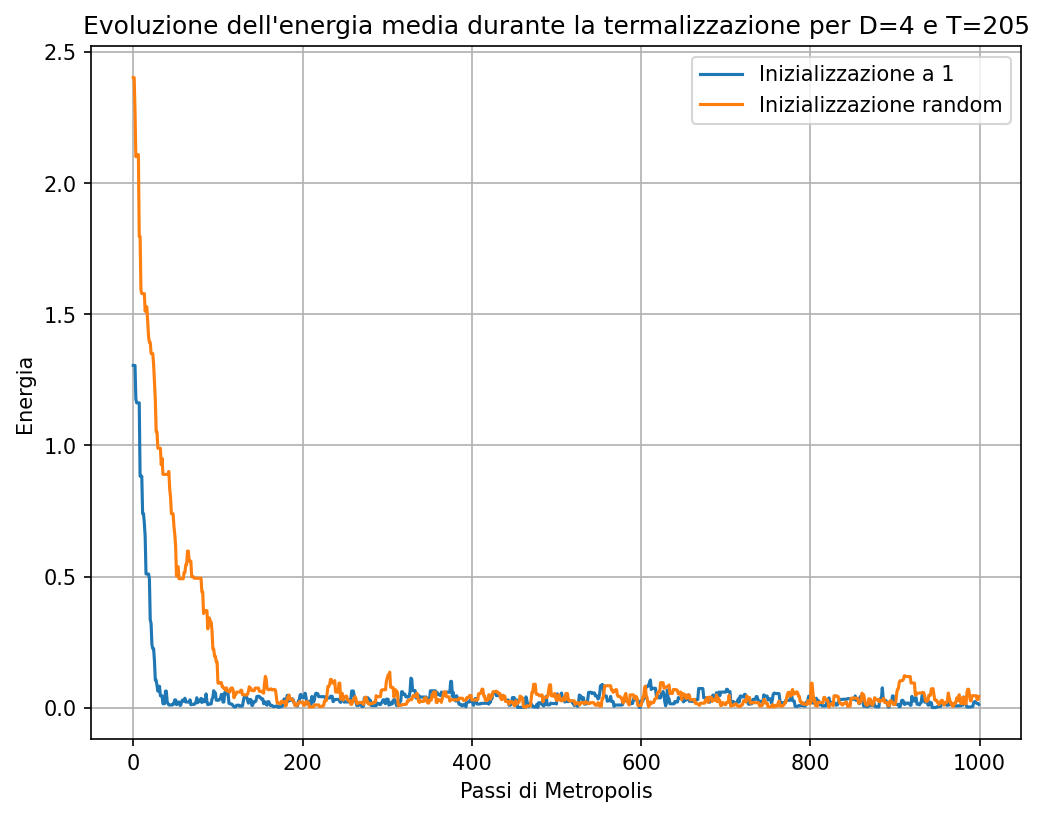
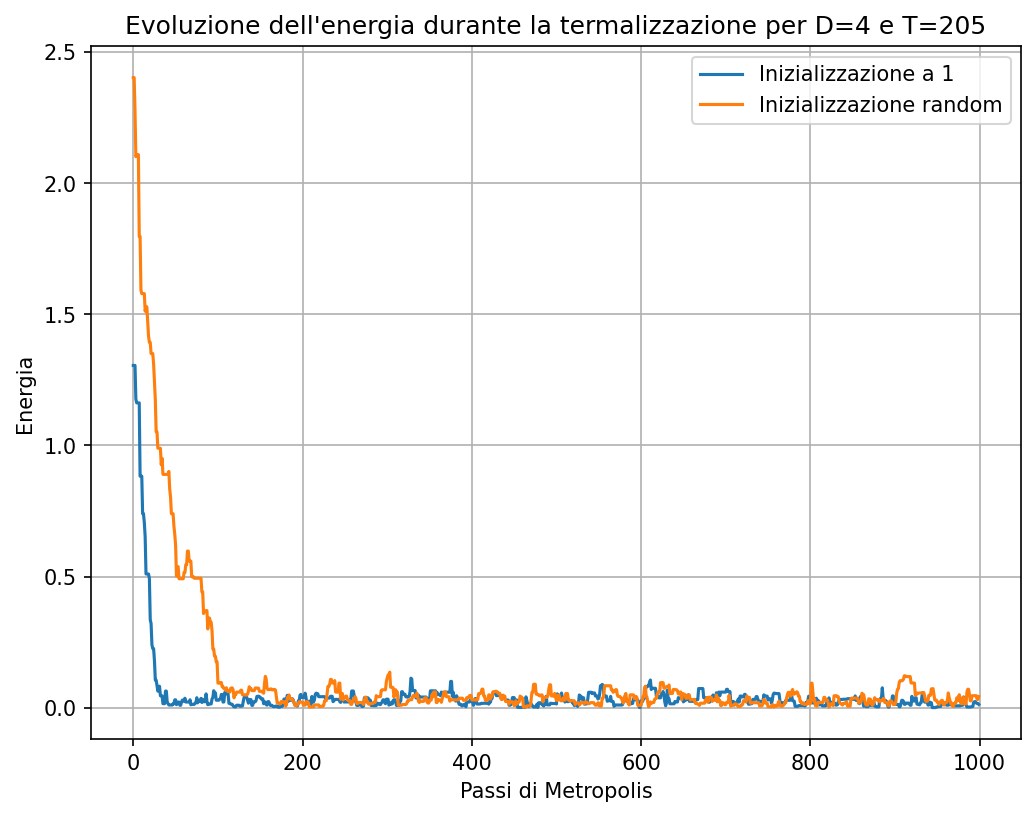
runned code, better plots, more steps

diff --git a/source/plot.py b/source/plot.py
@@ -17,7 +17,7 @@ def plot_thermalization_energies(trajectory1,trajectoryR, T, D, n_steps, V: Call
     plt.plot(jnp.arange(n_steps), jax.vmap(V)(trajectoryR), label="Inizializzazione random")
     plt.xlabel("Passi di Metropolis")
     plt.ylabel("Energia")
-    plt.title("Evoluzione dell'energia media durante la termalizzazione per D={} e T={}".format(D, T))
+    plt.title("Evoluzione dell'energia durante la termalizzazione per D={} e T={}".format(D, T))
     plt.legend()
     plt.grid()
     filename = f"thermalization_energies_D{D}_T{T:.2f}.png"
@@ -26,7 +26,7 @@ def plot_thermalization_energies(trajectory1,trajectoryR, T, D, n_steps, V: Call
     print(f"Grafico salvato in: {filepath}")
     plt.close()
 
-def plot_obs_D_T(results, dimensions, observable, error=None):
+def plot_obs_D_T(results, dimensions, observable, error=None, a=None, b=None):
     _ensure_report_dir()
     if error is None:
         plt.figure(figsize=(8,6))
@@ -42,8 +42,19 @@ def plot_obs_D_T(results, dimensions, observable, error=None):
         plt.xlabel("Temperatura")
         plt.ylabel(observable.replace('_', ' ').capitalize())
         plt.title(f"{observable.replace('_', ' ').capitalize()} vs Temperatura per diverse dimensioni")
-        plt.legend()
+        plt.legend(loc="upper right")
         plt.grid()
+
+        if a is not None and b is not None:
+            param_text = (rf"$a = {a:.3f}$" + "\n" + rf"$b = {b:.3f}$")
+
+            plt.text(0.05, 0.95,param_text, transform=plt.gca().transAxes,fontsize=11,
+                verticalalignment="top",
+                bbox=dict(
+                    boxstyle="round",
+                    facecolor="white",
+                    edgecolor="black",
+                    alpha=0.9)           )
 
         filename = f"{observable}_vs_T.png"
         filepath = os.path.join(REPORT_DIR, filename)
@@ -67,70 +78,24 @@ def plot_obs_D_T(results, dimensions, observable, error=None):
         plt.legend()
         plt.grid()
 
+        if a is not None and b is not None:
+            param_text = (rf"$a = {a:.3f}$" + "\n" + rf"$b = {b:.3f}$")
+
+            plt.text(0.05, 0.95,param_text, transform=plt.gca().transAxes,fontsize=11,
+                verticalalignment="top",
+                bbox=dict(
+                    boxstyle="round",
+                    facecolor="white",
+                    edgecolor="black",
+                    alpha=0.9)           )
+
         filename = f"{observable}_vs_T.png"
         filepath = os.path.join(REPORT_DIR, filename)
         plt.savefig(filepath, dpi=150, bbox_inches="tight")
         print(f"Grafico salvato in: {filepath}")
         plt.close()
 
-def plot_trajectory_x_relative_freq(results, Ds, Ts):
-    _ensure_report_dir()
-    n_rows = len(Ds)
-    n_cols = len(Ts)
-    fig, axes = plt.subplots(n_rows, n_cols, figsize=(4*n_cols, 3*n_rows),
-                             sharex=False, sharey=False)  # scale indipendenti
-    # gestione caso n_rows=1 o n_cols=1
-    if n_rows == 1:
-        axes = axes[np.newaxis, :]
-    if n_cols == 1:
-        axes = axes[:, np.newaxis]
-
-    for i, D in enumerate(Ds):
-        for j, T in enumerate(Ts):
-            trajectory_x = results[D]["trajectory_x"][results[D]["T"].index(T)]
-            axes[i, j].hist(trajectory_x, bins=30, density=True)
-            axes[i, j].set_title(f"D={D}, T={T}")
-            axes[i, j].set_xlabel("x[0]")
-            axes[i, j].set_ylabel("Freq. relativa")
-            axes[i, j].grid()
-
-    fig.suptitle("Distribuzione di x[0] per diverse dimensioni e temperature", fontsize=13)
-    plt.tight_layout()
-    filename = f"trajectory_x_relative_freq.png"
-    filepath = os.path.join(REPORT_DIR, filename)
-    plt.savefig(filepath, dpi=150, bbox_inches="tight")
-    print(f"Grafico salvato in: {filepath}")
-    plt.close()
-
-def plot_trajectory_x_t(results, Ds, Ts):
-    _ensure_report_dir()
-    n_rows = len(Ds)
-    n_cols = len(Ts)
-    fig, axes = plt.subplots(n_rows, n_cols, figsize=(4*n_cols, 3*n_rows),
-                             sharex=True, sharey=False)  # stesso asse x (passi), y libero
-    if n_rows == 1:
-        axes = axes[np.newaxis, :]
-    if n_cols == 1:
-        axes = axes[:, np.newaxis]
-
-    for i, D in enumerate(Ds):
-        for j, T in enumerate(Ts):
-            trajectory_x = results[D]["trajectory_x"][results[D]["T"].index(T)]
-            axes[i, j].plot(trajectory_x)
-            axes[i, j].set_title(f"D={D}, T={T}")  # titolo completo su ogni subplot
-            axes[i, j].set_xlabel("Passi di Metropolis")
-            axes[i, j].set_ylabel("x[0]")
-            axes[i, j].grid()
-
-    fig.suptitle("Traiettoria di x[0] per diverse dimensioni e temperature", fontsize=13)
-    plt.tight_layout()
-    filename = "trajectory_x_t.png"
-    filepath = os.path.join(REPORT_DIR, filename)
-    plt.savefig(filepath, dpi=150, bbox_inches="tight")
-    print(f"Grafico salvato in: {filepath}")
-    plt.close()
-
-def plot_tau(results, dimensions):
+def plot_tau(results, dimensions, a=None, b=None):
     _ensure_report_dir()
     plt.figure(figsize=(8,6))
 
@@ -142,6 +107,17 @@ def plot_tau(results, dimensions):
                 marker='o',
                 label=f"D={D}"
             )
+        
+    if a is not None and b is not None:
+            param_text = (rf"$a = {a:.3f}$" + "\n" + rf"$b = {b:.3f}$")
+
+            plt.text(0.05, 0.95,param_text, transform=plt.gca().transAxes,fontsize=11,
+                verticalalignment="top",
+                bbox=dict(
+                    boxstyle="round",
+                    facecolor="white",
+                    edgecolor="black",
+                    alpha=0.9)           )
 
     plt.xlabel("Temperatura")
     plt.ylabel("Tau")

diff --git a/source/main.py b/source/main.py
@@ -77,20 +77,16 @@ def main():
             obs.append_observables(results, D, T, trajectory, acceptance_rate, V, tollerance,window, c, kb)
     
     # plot results
-    plot.plot_obs_D_T(results, dimensions, "E_mean", error=True)
-    plot.plot_obs_D_T(results, dimensions, "Cv", error=True)
-    plot.plot_obs_D_T(results, dimensions, "acceptance")
+    plot.plot_obs_D_T(results, dimensions, "E_mean", error=True, a=a, b=b)
+    plot.plot_obs_D_T(results, dimensions, "Cv", error=True, a=a, b=b)
+    plot.plot_obs_D_T(results, dimensions, "acceptance", a=a, b=b)
+
     Ds = [1, 4]
-    plot.plot_tau(results, Ds)
+    plot.plot_tau(results, Ds, a=a, b=b)
 
-    #plotting Ts
-    Ts =[temperatures[0], temperatures[20], temperatures[80], temperatures[-1]]
-    
-    plot.plot_trajectory_x_relative_freq(results, dimensions, Ts)
-
-    #plotting Ts
-    Ts =[temperatures[0], temperatures[20], temperatures[-1]]
-    plot.plot_trajectory_x_t(results, Ds, Ts)
+    Ds = [2, 4]
+    Ts =[temperatures[1], temperatures[19], temperatures[-1]]
+    plot.plot_trajectory_2d(results, Ds, Ts)
     
 if __name__ == "__main__":
     main()

diff --git a/source/observable.py b/source/observable.py
@@ -85,12 +85,13 @@ def autocorr_fft(x):
 #  tau with Sokal method
 def tau_int(x, c=5):
     acf = autocorr_fft(x)
+    N = len(acf)
     tau = 0.5
-    for t in range(1, len(acf)):
-        if acf[t] <= 0:
-            break
+    window = 1
+    for t in range(1, N):
         tau += acf[t]
         if t > c * tau:
+            window = t
             break
     return tau
 
